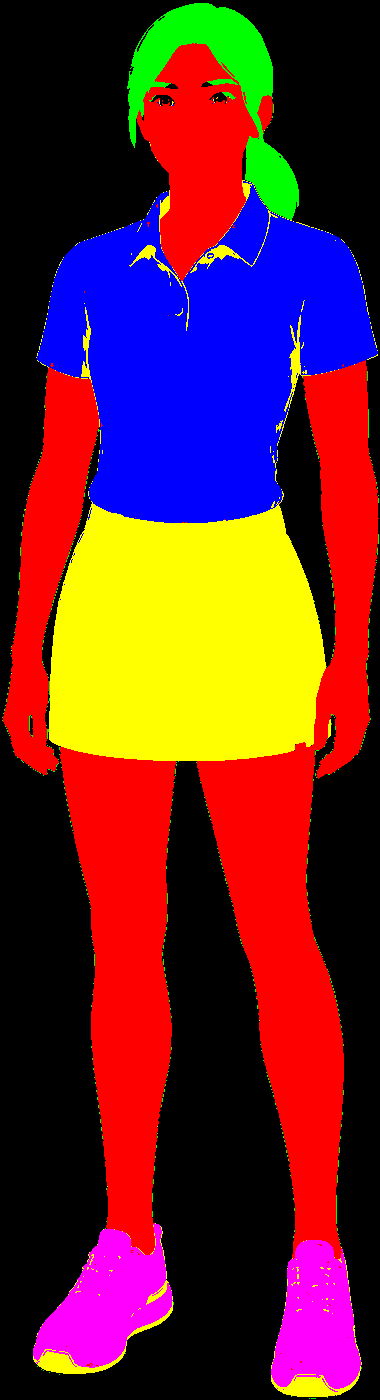
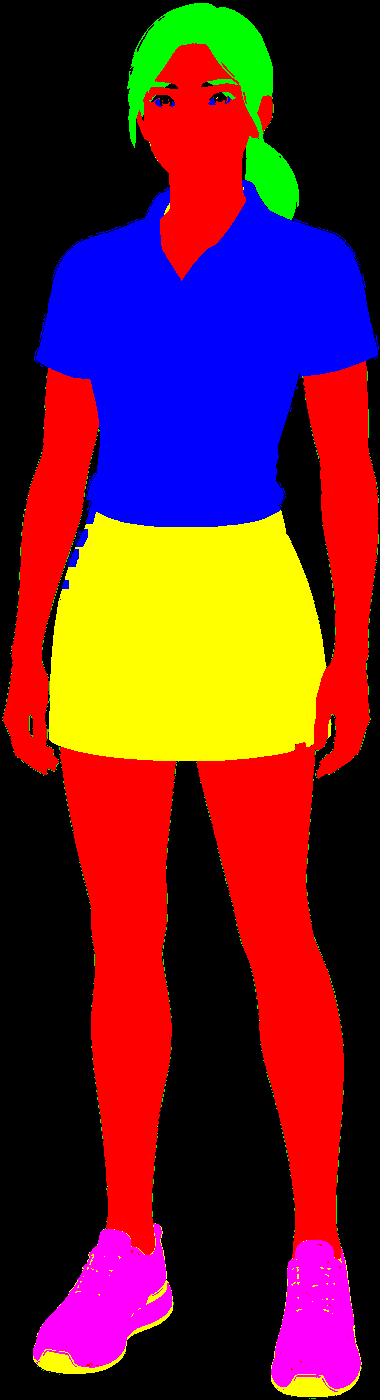
CS200: pixel-perfect shirt edges (mask cleanup)
The shirt showed jagged white blotches at the collar/seams/sleeves/hem —
the mask generation had mislabeled the base art's bright-white shirt detail
pixels as background/pants/skin, so the recolour skipped them. Cleaned up
both full-body masks (fill enclosed shirt holes, reclaim bright shirt-
surrounded pixels, and an edge pass reclaiming mislabeled hem/seam pixels
adjacent to the shirt while protecting skin/hair/shoes/background). Only
relabels toward shirt, so no other region is affected. Bumped AV_VER 3->4
and SW cache v2->v3 so devices fetch the corrected masks. Verified by
rendering the real avatar (red pinstripe + navy, both genders) — clean edges,
zero page errors.

Claude-Session: https://claude.ai/code/session_01L7fk68sivFqh98rLW3Jw5G

diff --git a/build-a-golfer/build-a-golfer.html b/build-a-golfer/build-a-golfer.html
@@ -4582,7 +4582,7 @@ const _avRender=new Map();   // look-key -> recolored 512 offscreen canvas
 // bump AV_VER whenever any avatar PNG (base/mask/accessory) changes — the ?v= busts the
 // service-worker's cache-first store so the new art reaches devices immediately (a mask edit
 // otherwise stays stale because static assets are served from cache first).
-const AV_VER='3';
+const AV_VER='4';
 function avLoad(src){
   let e=_avImg.get(src);
   if(!e){ e={img:new Image(),ready:false,failed:false}; e.img.crossOrigin='anonymous';

diff --git a/build-a-golfer/sw.js b/build-a-golfer/sw.js
@@ -8,7 +8,7 @@
                               caching/CORS; the SW never intercepts them).
    skipWaiting + clients.claim mean a newly-deployed SW takes over on the next load. Bump CACHE to
    force-invalidate everything on a breaking change. */
-const CACHE = 'runtour-v2';   // bumped: flush stale cached avatar masks (CS187 belt fix reaches devices)
+const CACHE = 'runtour-v3';   // bumped: flush stale cached avatar masks (CS200 shirt-edge mask cleanup)
 
 self.addEventListener('install', () => { self.skipWaiting(); });
 

diff --git a/build-a-golfer/CLAUDE.md b/build-a-golfer/CLAUDE.md
@@ -5307,6 +5307,22 @@ allows Google Fonts, or self-host Anton.*
   glove + clubs equipped: the gloved hand conforms to the fingers, wears the strap, and grips the club; zero
   page errors. HTML only.
 
+- **CS200 — pixel-perfect shirt edges (mask cleanup).** Owner (screenshot of a red pinstripe polo): "the
+  shirt is a little pixelated at the edges — make it pixel perfect." Diagnosed by reproducing the recolour in
+  Python: the mask is 1:1 with the base (no scaling), but the mask GENERATION had mislabeled the shirt's
+  bright-white detail pixels — collar/placket/seam/cuff/hem highlights (pure white in the base art) were
+  tagged as background or `pants` or `skin`, so the recolour skipped them and the near-white fabric showed
+  through as jagged light blotches. Cleaned up both full-body masks (`base-{male,female}-mask.png`) offline:
+  (1) flood-fill fully-enclosed shirt holes; (2) reclaim bright pixels strongly surrounded by shirt; (3) an
+  edge pass that reclaims the mislabeled hem/seam pixels adjacent to the shirt — stray `pants` labels above
+  the real waist, bright `None` highlights (never the dark silhouette edge), and pure-white hems over skin —
+  while protecting normal skin, hair, shoes and the background. The cleanup only ever relabels TOWARD shirt,
+  so it can't damage other regions. Bumped `AV_VER` 3→4 and the SW cache v2→v3 so devices fetch the corrected
+  masks. Verified by rendering the REAL full-body avatar over http (canvas not file:// tainted) with a red
+  pinstripe and a navy polo on both genders: crisp clean edges at collar/sleeves/placket/hem, no blotches,
+  shirt stays within its boundaries; zero page errors. Mask PNGs + AV_VER/CACHE bump only (recolour code
+  unchanged).
+
 ### Still parked (need owner go-ahead)
 Online leaderboard/accounts (backend+deploy), real Strokes-Gained roster data,
 hosting/domain. Tunable knobs flagged in code: `COSTS.travelPerEvent`, sim
